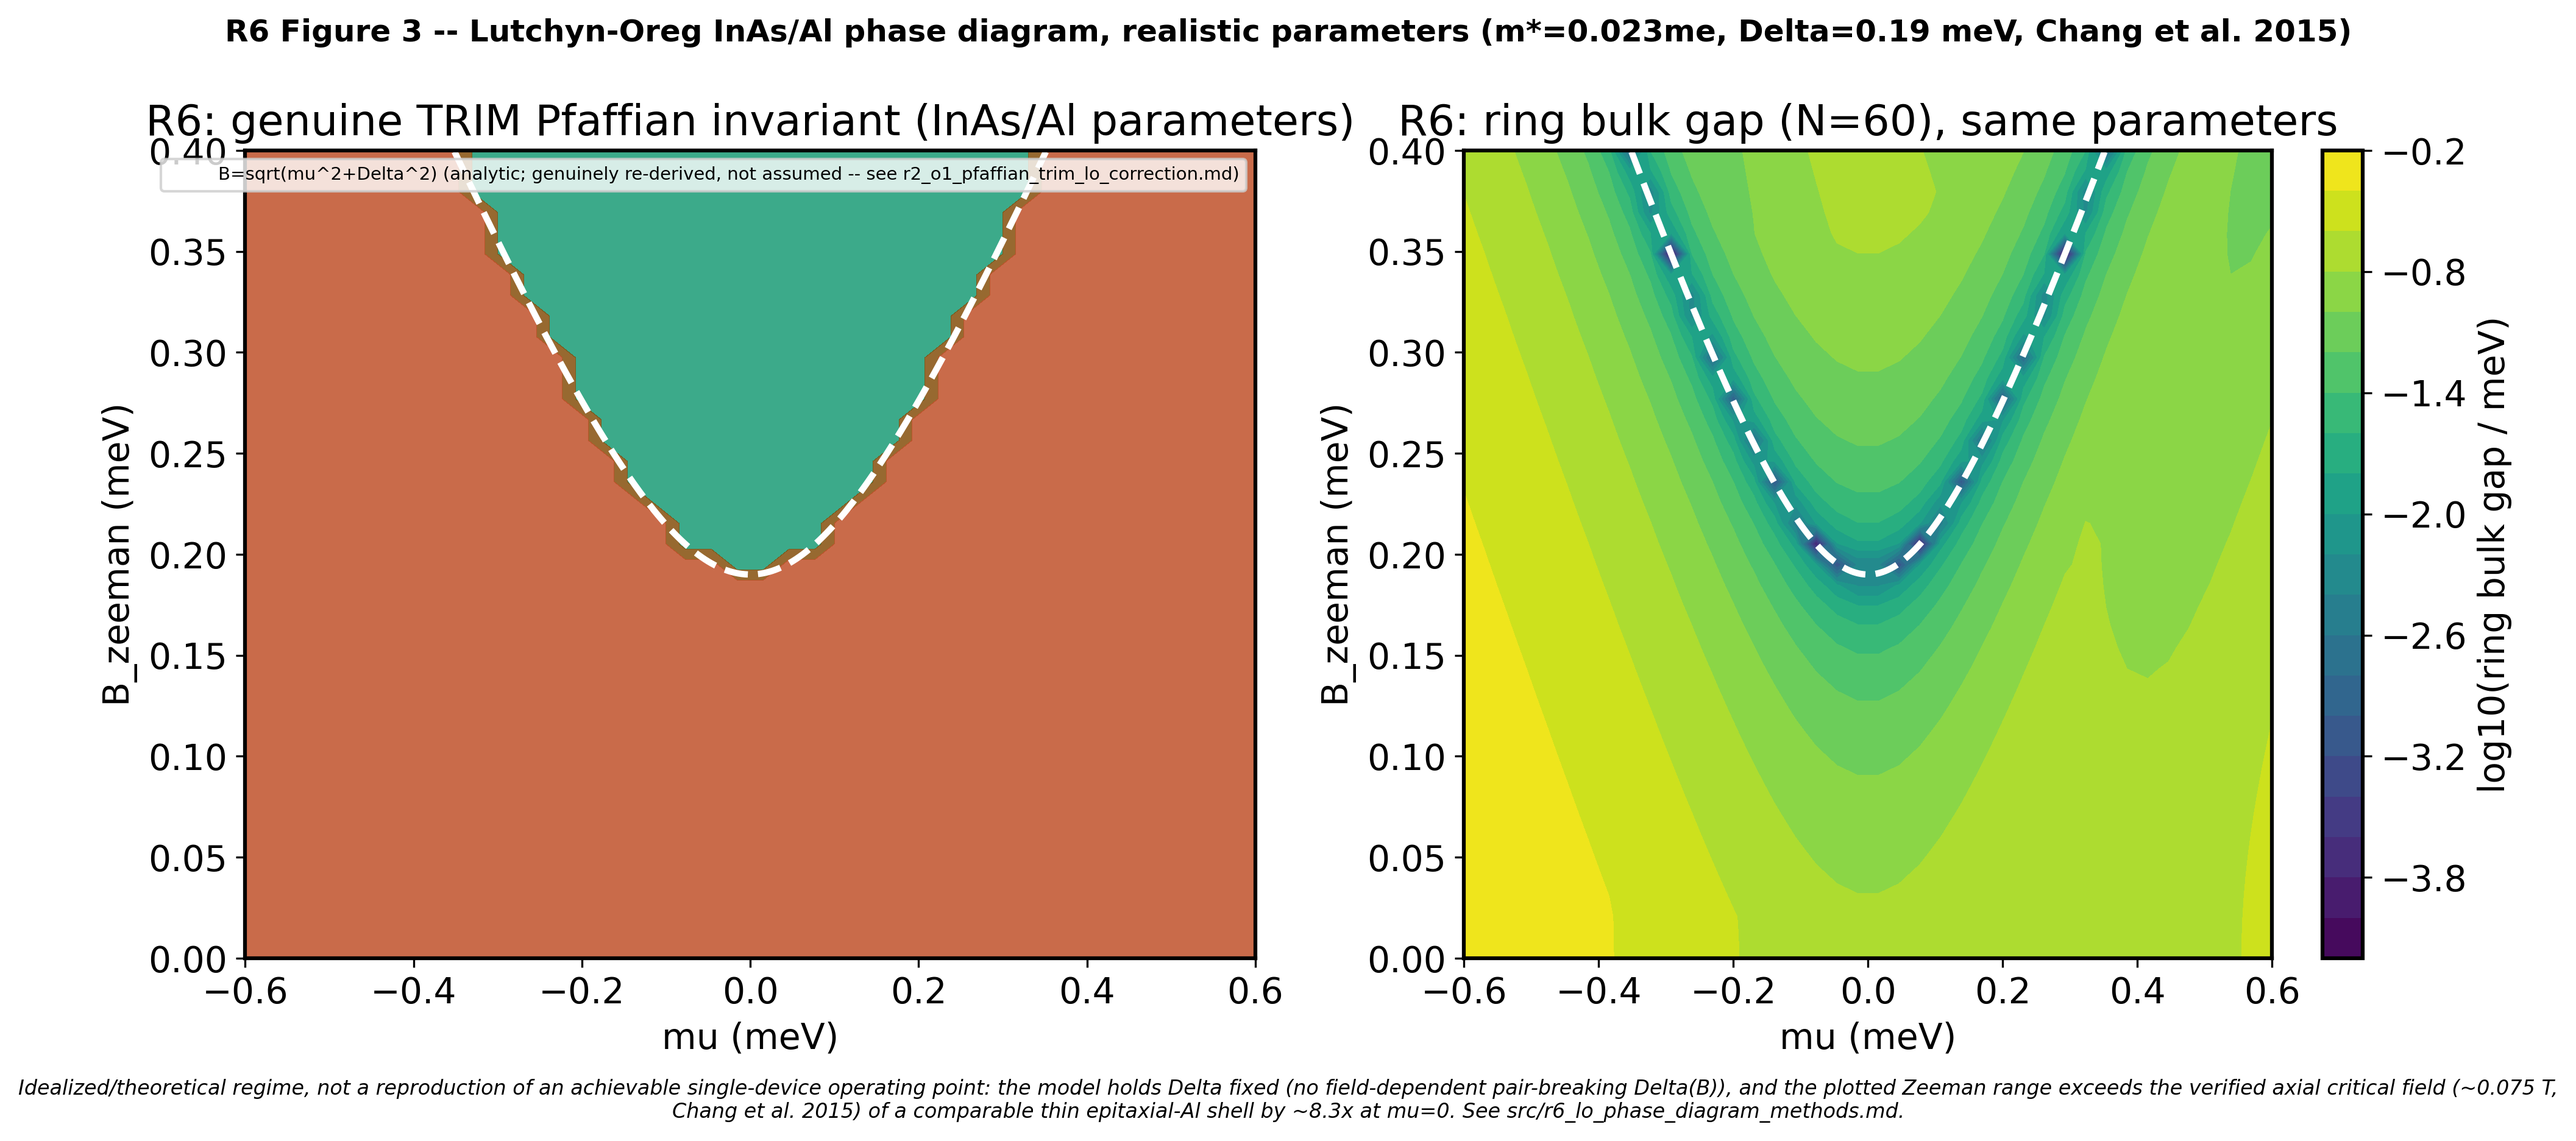
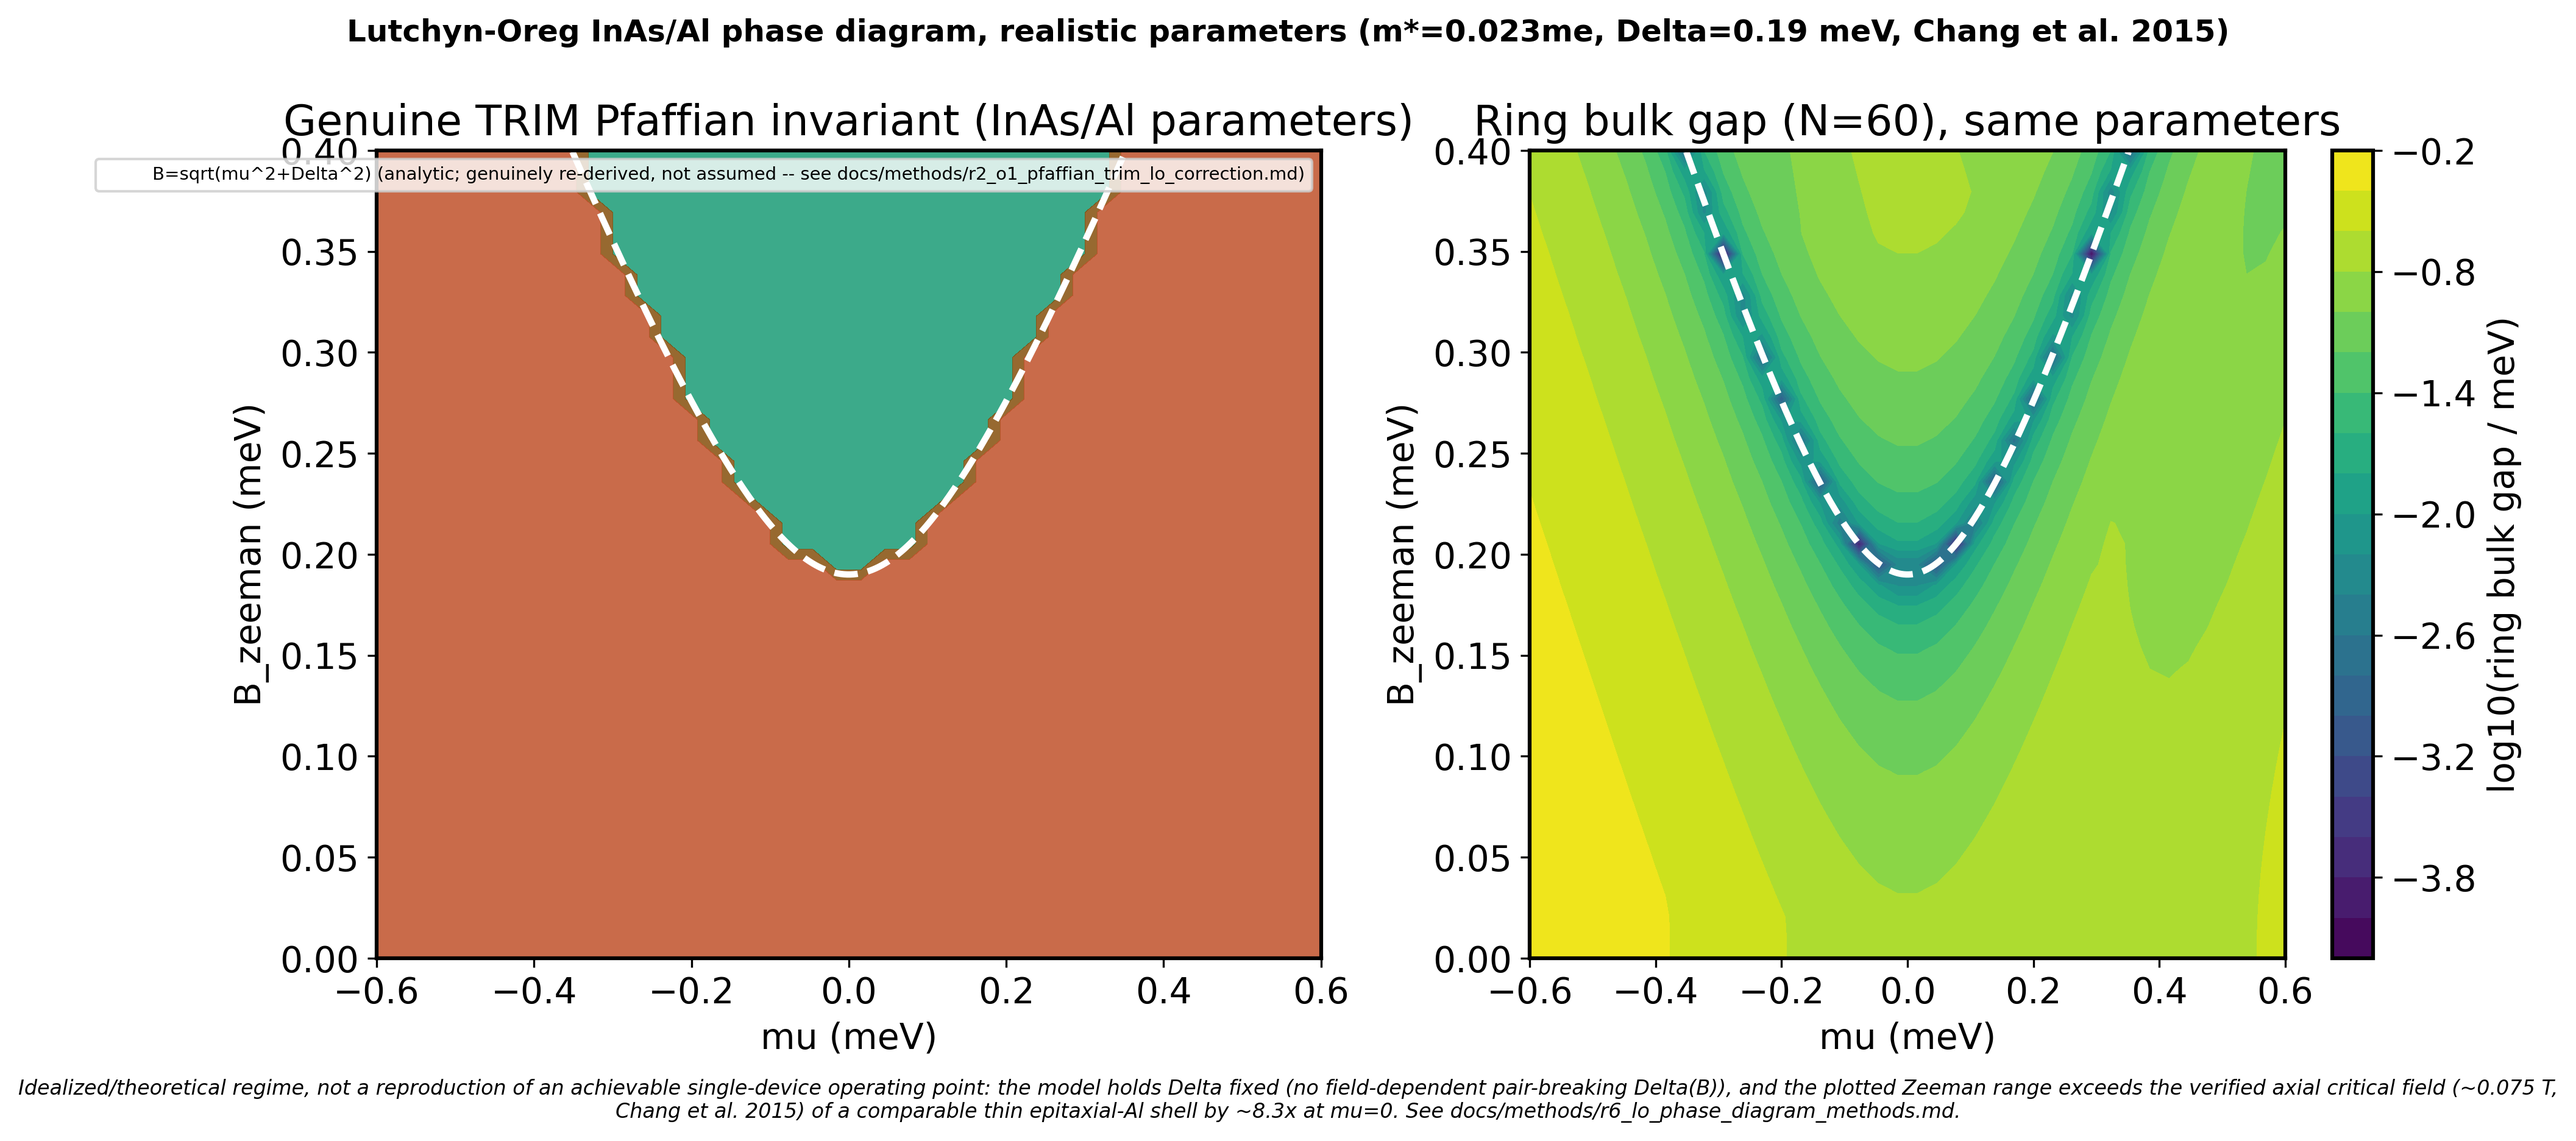
Refresh paper figures 1, 2, 4, 5 without phase/track labels; add scripts/redraw_paper_fig4.py
fig1, fig2 and fig5 are byte copies of the regenerated result figures they
were byte copies of before. fig4 is redrawn by scripts/redraw_paper_fig4.py
from the saved r9_pole_data.json: same plotting code and data, shorter
super-title and one legend label without the stage prefix.

diff --git a/scripts/redraw_paper_fig4.py b/scripts/redraw_paper_fig4.py
@@ -1,0 +1,82 @@
+"""
+Redraw paper/figures/fig4_bounded_pole.png from the saved reactive-impedance pole data.
+
+Nothing is recomputed: the plotted curves are read from
+results/reactive_impedance/pole_characterization/r9_pole_data.json. The two panels are the
+Figure-1 panels of bdg_r9_pole_characterization.make_figures(), stacked vertically at
+single-column width under a shorter super-title so that the title is not clipped when the
+figure is scaled to the journal column. The plotting calls, constants and data are those of
+make_figures(); only the figure geometry and the super-title differ.
+
+usage:  py -3.13 scripts/redraw_paper_fig4.py [output.png]
+default output: paper/figures/fig4_bounded_pole.png
+"""
+import json
+import os
+import sys
+
+_REPO = os.path.join(os.path.dirname(os.path.abspath(__file__)), "..")
+sys.path.insert(0, os.path.join(_REPO, "src"))
+
+import matplotlib
+matplotlib.use("Agg")
+import matplotlib.pyplot as plt
+import numpy as np
+
+import bdg_r9_pole_characterization as pole
+
+# Importing the module applies its own rcParams (large fonts, thick lines); the paper
+# figure uses matplotlib's defaults.
+matplotlib.rcdefaults()
+
+DATA_FILE = pole._out("r9_pole_data.json")
+DEFAULT_OUT = os.path.join(_REPO, "paper", "figures", "fig4_bounded_pole.png")
+
+
+def draw(data, out):
+    br = [r for r in data["branch"] if np.isfinite(r["s"]) and r["s"] < 1.0]
+    g = np.array([r["g"] for r in br]); enh = np.array([r["enh"] for r in br])
+    det = data["detach"]; fit = data["fit"]; gcr = data["gcrit"]
+
+    fig, (axA, axB) = plt.subplots(2, 1, figsize=(6.6, 8.6))
+    axA.plot(g, enh, "o-", color="#2ca02c", ms=4, label=r"$1/(1-s)$ principal branch")
+    if np.isfinite(det.get("g_detach", np.nan)):
+        axA.axvline(det["g_detach"], color="#d62728", ls="--", lw=1.3,
+                    label=f"detachment g≈{det['g_detach']:.2e}\n(enh caps at {det['enh_at_detach']:.1f})")
+    axA.axvspan(pole.G_CRIT_R5_LO, pole.G_CRIT_R5_HI, color="orange", alpha=0.18,
+                label="g_crit band (1.1–1.2e5)")
+    axA.axvline(pole.G_R7, color="k", ls=":", lw=1.1, label=f"production g={pole.G_R7:.1e}")
+    if gcr.get("g_crit_slope_cross"):
+        axA.axvline(gcr["g_crit_slope_cross"], color="purple", ls="-.", lw=1.1,
+                    label=f"slope=1 rule cross ≈{gcr['g_crit_slope_cross']:.2e}")
+    axA.set_xlabel("feedback strength  g"); axA.set_ylabel(r"enhancement $1/(1-s)$")
+    axA.set_title("(A)  Enhancement caps at ~%.1f (N=80), then detaches\n"
+                  "(fluxoid sawtooth) — s never reaches 1"
+                  % fit.get("max_enh_attained", float("nan")), fontsize=10)
+    axA.legend(fontsize=7.5, loc="upper left")
+
+    la = sorted(data["nscale"]["L_axis"], key=lambda r: r["N"])
+    fl = sorted(data["nscale"]["fixedL"], key=lambda r: r["N"])
+    axB.plot([r["N"] for r in la], [r["max_enh"] for r in la], "o-",
+             color="#1f77b4", label="L-axis (a=10 nm; L & N grow)")
+    axB.plot([r["N"] for r in fl], [r["max_enh"] for r in fl], "s-",
+             color="#d62728", label=f"fixed-L mesh (L={data['nscale']['fixedL_um']} μm)")
+    axB.axhline(1.0, color="0.7", lw=0.8)
+    axB.set_xlabel("N (sites)"); axB.set_ylabel("max enhancement reached")
+    axB.set_title("(B)  Cap is N-dependent: it CLIMBS as the mesh\n"
+                  "refines (pole sharpens) — bound is not universal", fontsize=10)
+    axB.legend(fontsize=8)
+
+    fig.suptitle("The reactive-impedance 'pole' near $g_{\\rm crit}$", fontweight="bold")
+    fig.tight_layout(rect=(0, 0, 1, 0.95))
+    fig.subplots_adjust(top=0.91, hspace=0.35)
+    fig.savefig(out, dpi=140)
+    plt.close(fig)
+
+
+if __name__ == "__main__":
+    out = sys.argv[1] if len(sys.argv) > 1 else DEFAULT_OUT
+    with open(DATA_FILE, encoding="utf-8") as f:
+        data = pole._coerce(json.load(f))
+    draw(data, out)
+    print("Saved:", os.path.abspath(out))
